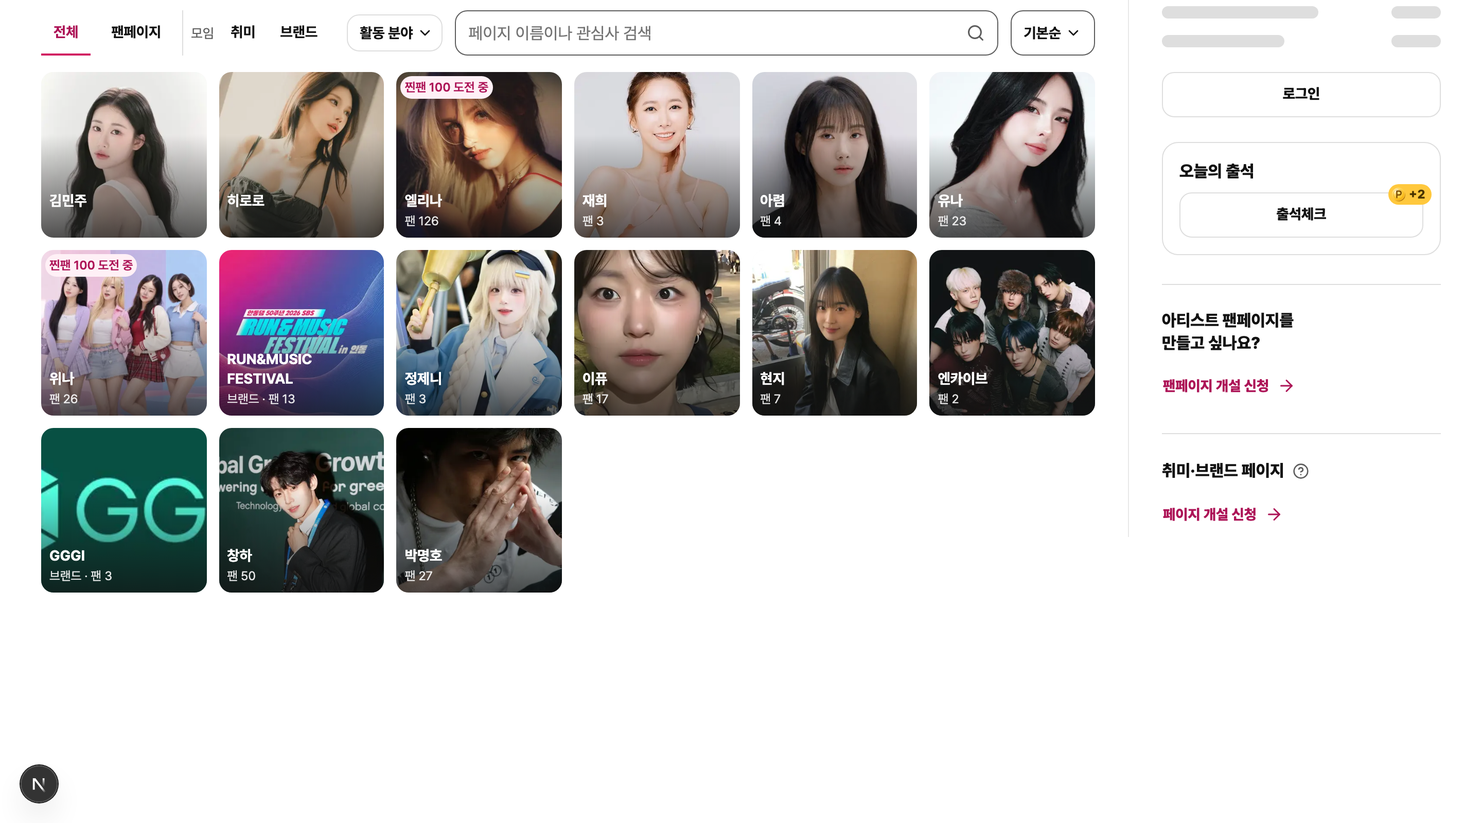
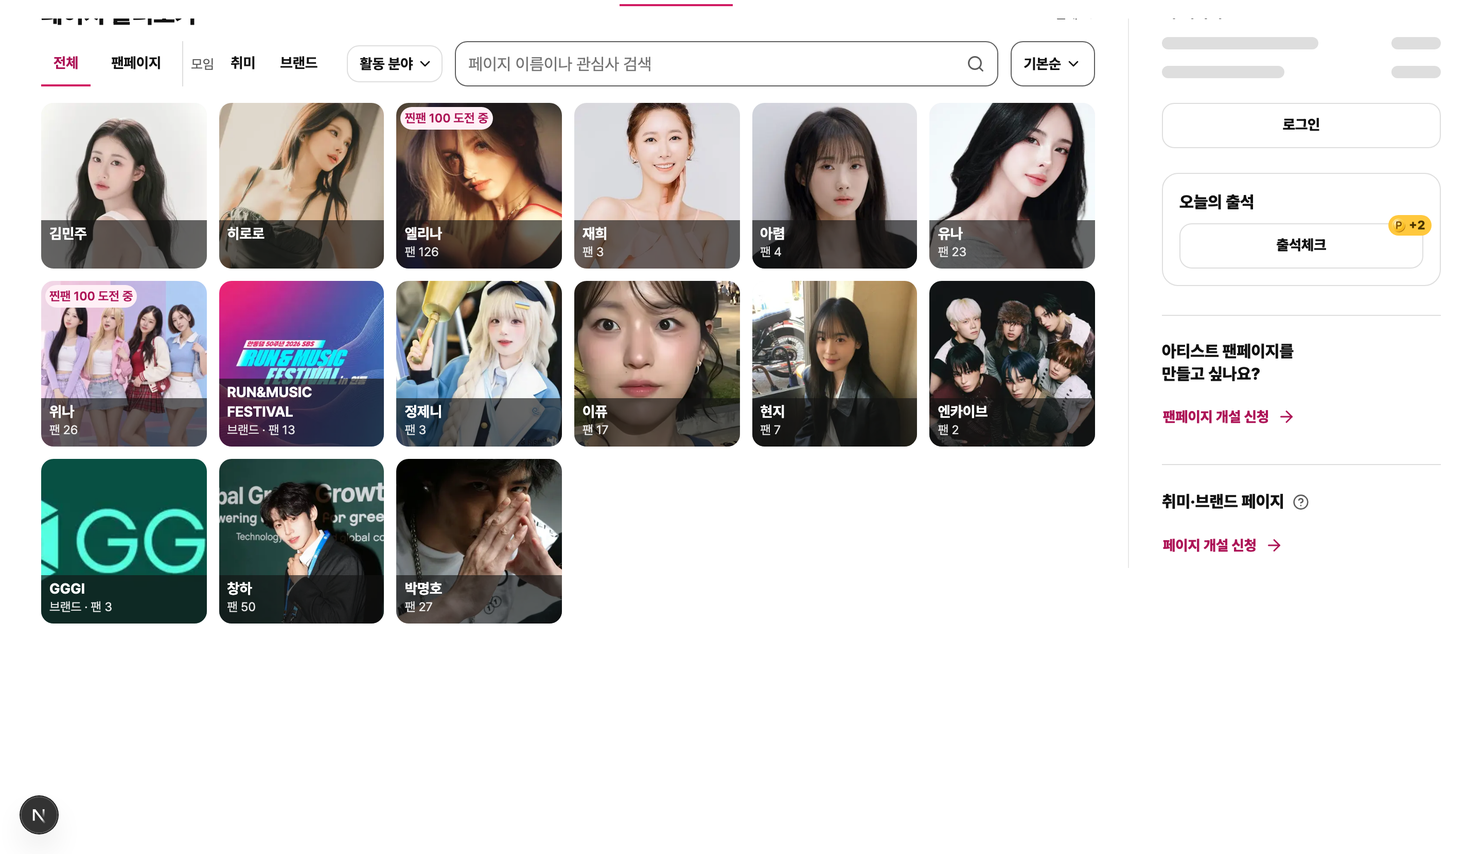
fix(groups): finish the directory tiles and filter row at 360
- At 380px and below the chips sit 4px apart so the Korean filter row fits 360;
  a longer translated row keeps 16px after its last chip.
- Tiles lay the badge and the name band out in one column, so they keep at
  least 4px apart however the tag wraps; the fact line wraps instead of being cut.
- The name band is one flat translucent ink band instead of a gradient (S1).
- Shorter fr and ru search hints that fit the 360 search field.
- Release note captures retaken with the band.

diff --git a/apps/web/features/groups/ui/copy.ts b/apps/web/features/groups/ui/copy.ts
@@ -10,8 +10,8 @@ const labels = {
  vi: ["Nhóm", "Khám phá trang", "Tất cả", "Người hâm mộ", "Sở thích", "Thương hiệu", "Tìm trang hoặc sở thích", "Nhiều fan nhất", "Mới nhất", "Trang của tôi", "Đăng ký mở trang", "Xem thêm", "Thử lại", "Đang tải", "Chưa có trang để hiển thị.", "Tham gia", "Đã tham gia", "Trang chủ", "Bảng tin", "Phòng riêng", "Hoạt động", "Tin tức", "Sự kiện", "Bộ sưu tập", "Fan", "Thông tin trang", "Lưu", "Đã nhận đăng ký", "Chúng tôi sẽ thông báo sau khi xét duyệt.", "Tên trang", "Giới thiệu", "Câu hỏi tham gia (tùy chọn)", "Gửi đăng ký", "Hủy", "Đăng nhập", "Câu trả lời", "Không thể hoàn tất. Hãy thử lại.", "Trang đã tham gia", "Bỏ lưu", "Chỉ dành cho fan.", "Tìm kiếm"],
  th: ["กลุ่ม", "สำรวจเพจ", "ทั้งหมด", "แฟน", "งานอดิเรก", "แบรนด์", "ค้นหาเพจหรือความสนใจ", "แฟนมากที่สุด", "ใหม่ล่าสุด", "เพจของฉัน", "ขอเปิดเพจ", "ดูเพิ่มเติม", "ลองอีกครั้ง", "กำลังโหลด", "ยังไม่มีเพจให้แสดง", "เข้าร่วม", "เข้าร่วมแล้ว", "หน้าแรก", "กระดาน", "ห้องส่วนตัว", "กิจกรรม", "ข่าวสาร", "อีเวนต์", "คอลเลกชัน", "แฟน", "ข้อมูลเพจ", "บันทึก", "ได้รับคำขอแล้ว", "เราจะแจ้งผลหลังตรวจสอบ", "ชื่อเพจ", "เกี่ยวกับเพจ", "คำถามเข้าร่วม (ไม่บังคับ)", "ส่งคำขอ", "ยกเลิก", "เข้าสู่ระบบ", "คำตอบของคุณ", "ไม่สำเร็จ โปรดลองอีกครั้ง", "เพจที่เข้าร่วม", "เลิกบันทึก", "สำหรับแฟนเท่านั้น", "ค้นหา"],
  pt: ["Grupos", "Explorar páginas", "Todos", "Fãs", "Interesses", "Marcas", "Buscar páginas ou interesses", "Mais fãs", "Mais recentes", "Minhas páginas", "Solicitar página", "Ver mais", "Tentar novamente", "Carregando", "Ainda não há páginas.", "Participar", "Participando", "Início", "Fórum", "Salas privadas", "Atividades", "Notícias", "Eventos", "Coleção", "Fãs", "Informações", "Salvar", "Solicitação recebida", "Avisaremos após a análise.", "Nome", "Descrição", "Pergunta de entrada (opcional)", "Enviar solicitação", "Cancelar", "Entrar", "Sua resposta", "Não foi possível concluir. Tente novamente.", "Páginas de que participo", "Remover dos salvos", "Somente fãs.", "Buscar"],
- fr: ["Groupes", "Explorer les pages", "Tout", "Fans", "Loisirs", "Marques", "Rechercher des pages ou intérêts", "Plus de fans", "Plus récentes", "Mes pages", "Demander une page", "Voir plus", "Réessayer", "Chargement", "Aucune page à afficher.", "Rejoindre", "Membre", "Accueil", "Forum", "Salons privés", "Activités", "Actualités", "Événements", "Collection", "Fans", "Informations", "Enregistrer", "Demande reçue", "Nous vous informerons après examen.", "Nom", "Présentation", "Question d’adhésion (facultative)", "Envoyer", "Annuler", "Se connecter", "Votre réponse", "Impossible de terminer. Réessayez.", "Pages rejointes", "Retirer des favoris", "Réservé aux fans.", "Rechercher"],
- ru: ["Группы", "Обзор страниц", "Все", "Фанаты", "Увлечения", "Бренды", "Поиск страниц или интересов", "Больше фанатов", "Новые", "Мои страницы", "Заявка на страницу", "Показать ещё", "Повторить", "Загрузка", "Пока нет страниц.", "Вступить", "Вы участник", "Главная", "Обсуждения", "Комнаты", "Активности", "Новости", "События", "Коллекция", "Фанаты", "О странице", "Сохранить", "Заявка получена", "Мы сообщим результат проверки.", "Название", "Описание", "Вопрос для вступления (необязательно)", "Отправить заявку", "Отмена", "Войти", "Ваш ответ", "Не удалось завершить. Повторите попытку.", "Ваши страницы", "Убрать из сохранённого", "Только для фанатов.", "Поиск"],
+ fr: ["Groupes", "Explorer les pages", "Tout", "Fans", "Loisirs", "Marques", "Page ou centre d'intérêt", "Plus de fans", "Plus récentes", "Mes pages", "Demander une page", "Voir plus", "Réessayer", "Chargement", "Aucune page à afficher.", "Rejoindre", "Membre", "Accueil", "Forum", "Salons privés", "Activités", "Actualités", "Événements", "Collection", "Fans", "Informations", "Enregistrer", "Demande reçue", "Nous vous informerons après examen.", "Nom", "Présentation", "Question d’adhésion (facultative)", "Envoyer", "Annuler", "Se connecter", "Votre réponse", "Impossible de terminer. Réessayez.", "Pages rejointes", "Retirer des favoris", "Réservé aux fans.", "Rechercher"],
+ ru: ["Группы", "Обзор страниц", "Все", "Фанаты", "Увлечения", "Бренды", "Страница или интерес", "Больше фанатов", "Новые", "Мои страницы", "Заявка на страницу", "Показать ещё", "Повторить", "Загрузка", "Пока нет страниц.", "Вступить", "Вы участник", "Главная", "Обсуждения", "Комнаты", "Активности", "Новости", "События", "Коллекция", "Фанаты", "О странице", "Сохранить", "Заявка получена", "Мы сообщим результат проверки.", "Название", "Описание", "Вопрос для вступления (необязательно)", "Отправить заявку", "Отмена", "Войти", "Ваш ответ", "Не удалось завершить. Повторите попытку.", "Ваши страницы", "Убрать из сохранённого", "Только для фанатов.", "Поиск"],
 } satisfies Record<AppLocale, readonly string[]>;
 const keys = ["groups","explore","all","fan","hobby","brand","searchPlaceholder","popular","recent","myPages","apply","more","retry","loading","empty","join","joined","home","board","rooms","activities","news","events","collection","members","info","bookmark","received","receivedNote","name","description","question","submit","cancel","login","answer","error","joinedPages","unbookmark","membersOnly","search"] as const;
 export function groupsCopy(locale: AppLocale) { return Object.fromEntries(keys.map((key,index)=>[key,labels[locale][index]])) as Record<typeof keys[number],string>; }

diff --git a/apps/web/features/groups/ui/group-directory.tsx b/apps/web/features/groups/ui/group-directory.tsx
@@ -55,6 +55,15 @@ function CheckinCorner({locale,children}:{locale:AppLocale;children:ReactNode}){
  const {points}=checkinNumbers(useDukjil()?.catalog);
  return <span className={`${cornerStyles.host} ${directoryStyles.attendanceAction}`}>{children}{points!==undefined&&<EarnBadge variant="corner" locale={locale} points={points}/>}</span>;
 }
+// Marks a sideways-scrolling row with data-scrolls so its end keeps room after the last chip.
+function useOverflowHint(){
+ const ref=useRef<HTMLDivElement|null>(null);
+ useEffect(()=>{const node=ref.current;if(!node)return;
+  const update=()=>{node.removeAttribute('data-scrolls');node.toggleAttribute('data-scrolls',node.scrollWidth>node.clientWidth+1);};
+  update();const observer=typeof ResizeObserver==='undefined'?undefined:new ResizeObserver(update);observer?.observe(node);
+  return()=>observer?.disconnect();},[]);
+ return ref;
+}
 const parseStatus=(value:unknown)=>applicationStatusListSchema.parse(value);
 const statusLabel:Record<ApplicationStatus["status"],GroupApplyCopyKey>={submitted:"statusReviewing",reviewing:"statusReviewing",changes_requested:"statusChanges",approved:"statusApproved",rejected:"statusRejected"};
 const parseList = (value:unknown)=>groupListSchema.parse(value);
@@ -67,6 +76,7 @@ export function GroupDirectory({locale,initialOwned=false,banners=[]}:{locale:Ap
   const t=groupsCopy(locale),c=discoveryCopy(locale),w=walletCopy(locale);
  const [attendanceOpen,setAttendanceOpen]=useState(false);
  const attendanceTrigger=useRef<HTMLAnchorElement|null>(null);
+ const filterBar=useOverflowHint();
   const query=useSearchParams();
   const directoryLoginQuery=new URLSearchParams(query?.toString()??'');directoryLoginQuery.set('locale',locale);
   const directoryLogin=fanLoginHref(locale,`/pages/groups?${directoryLoginQuery}`);
@@ -137,7 +147,7 @@ export function GroupDirectory({locale,initialOwned=false,banners=[]}:{locale:Ap
       <div className={directoryStyles.controls}>
       <form className={`${styles.search} ${directoryStyles.search}`} onSubmit={submit}><input className={`${styles.input} ${directoryStyles.searchInput}`} aria-label={t.searchPlaceholder} placeholder={t.searchPlaceholder} value={draft} onChange={e=>setDraft(e.target.value)} onCompositionStart={()=>setComposing(true)} onCompositionEnd={()=>setComposing(false)} maxLength={100}/><button className={directoryStyles.searchIcon} aria-label={t.search}><Search size={18}/></button></form>
       <Menu.Root><Menu.Trigger className={`${sortStyles.trigger} ${directoryStyles.sort}`} data-active={sort==='popular'?'':undefined}><ArrowDownUp className={directoryStyles.sortIcon} size={18} aria-hidden/><span className={directoryStyles.sortLabel}>{sort==='popular'?t.popular:c.defaultSort}</span><ChevronDown className={directoryStyles.sortChevron} size={16} aria-hidden/></Menu.Trigger><Menu.Portal><Menu.Positioner align='end' sideOffset={4} className={sortStyles.positioner}><Menu.Popup className={sortStyles.popup} data-source-node='XnL4z' aria-label={t.popular}><Menu.RadioGroup className={sortStyles.group} value={sort} onValueChange={value=>{if(value==='recent'||value==='popular')setSort(value);}}><Menu.RadioItem className={sortStyles.item} value='recent'>{c.defaultSort}</Menu.RadioItem><Menu.RadioItem className={sortStyles.item} value='popular'>{t.popular}</Menu.RadioItem></Menu.RadioGroup></Menu.Popup></Menu.Positioner></Menu.Portal></Menu.Root>
-      <div className={directoryStyles.filterBar} aria-label={t.explore}><button className={`${styles.chip} ${directoryStyles.chip}`} aria-pressed={type==='all'} onClick={()=>setType('all')}>{t.all}</button><button className={`${styles.chip} ${directoryStyles.chip}`} aria-pressed={type==='fan'} onClick={()=>setType('fan')}>{fanpageLabel[locale]}</button><div className={directoryStyles.groupKinds} role="group" aria-label={t.groups}><span className={directoryStyles.groupLabel}>{t.groups}</span>{(['hobby','brand'] as const).map(value=><button className={`${styles.chip} ${directoryStyles.chip}`} aria-pressed={type===value} key={value} onClick={()=>{if(artistRole)updateQuery('artistRole',undefined);setType(value);}}>{t[value]}</button>)}</div>
+      <div ref={filterBar} className={directoryStyles.filterBar} aria-label={t.explore}><button className={`${styles.chip} ${directoryStyles.chip}`} aria-pressed={type==='all'} onClick={()=>setType('all')}>{t.all}</button><button className={`${styles.chip} ${directoryStyles.chip}`} aria-pressed={type==='fan'} onClick={()=>setType('fan')}>{fanpageLabel[locale]}</button><div className={directoryStyles.groupKinds} role="group" aria-label={t.groups}><span className={directoryStyles.groupLabel}>{t.groups}</span>{(['hobby','brand'] as const).map(value=><button className={`${styles.chip} ${directoryStyles.chip}`} aria-pressed={type===value} key={value} onClick={()=>{if(artistRole)updateQuery('artistRole',undefined);setType(value);}}>{t[value]}</button>)}</div>
       <Menu.Root><Menu.Trigger className={`${styles.chip} ${directoryStyles.chip} ${directoryStyles.roleTrigger}`} disabled={nonFanType} data-active={activeRole?'':undefined} aria-label={`${groupApplyText(locale,'roleFilter')}: ${creatorRoleFilterLabel(activeRole??'all',locale)}`}>{activeRole?creatorRoleFilterLabel(activeRole,locale):groupApplyText(locale,'roleFilter')}<ChevronDown size={16} aria-hidden/></Menu.Trigger><Menu.Portal><Menu.Positioner align='start' sideOffset={4} className={sortStyles.positioner}><Menu.Popup className={sortStyles.popup} aria-label={groupApplyText(locale,'roleFilter')}><Menu.RadioGroup className={sortStyles.group} value={activeRole??'all'} onValueChange={value=>updateQuery('artistRole',value==='all'?undefined:String(value))}>{ROLE_FILTERS.map(role=><Menu.RadioItem key={role} className={sortStyles.item} value={role}>{creatorRoleFilterLabel(role,locale)}</Menu.RadioItem>)}</Menu.RadioGroup></Menu.Popup></Menu.Positioner></Menu.Portal></Menu.Root></div>
       </div>
       {mineRow&&<div className={styles.toolbar}><button className={styles.chip} aria-pressed={mine==="joined"} onClick={()=>setMine(mine==="joined"?undefined:"joined")}>{t.joinedPages}</button><button className={styles.chip} aria-pressed={mine==="bookmarked"} onClick={()=>setMine(mine==="bookmarked"?undefined:"bookmarked")}>{t.bookmark}</button></div>}

diff --git a/apps/web/components/fan-ui/fan-entity-card.module.css b/apps/web/components/fan-ui/fan-entity-card.module.css
@@ -25,18 +25,20 @@
 .list { position: relative; height: auto; min-height: 64px; padding: var(--space-2) 0; }
 .list::after { content: ""; position: absolute; inset-inline: calc(48px + var(--space-3)) 0; bottom: 0; height: 1px; background: var(--color-line-subtle); }
 .list:hover .name { text-decoration: underline; text-underline-offset: 3px; }
-/* Directory tile (L5): square photo, name and one fact on a dark fade at the photo's lower edge. Same-row tiles share one size, so the facts line up. */
-.tile { position: relative; display: block; aspect-ratio: 1; min-width: 0; overflow: hidden; border-radius: var(--radius-control); background: var(--color-soft); color: var(--color-surface); text-decoration: none; isolation: isolate; }
+/* Directory tile (L5): square photo, name and one fact on a dark band at the photo's lower edge. Same-row tiles share one size, so the facts line up. */
+.tile { position: relative; display: flex; flex-direction: column; justify-content: space-between; gap: var(--space-1); box-sizing: border-box; padding: var(--space-1); aspect-ratio: 1; min-width: 0; overflow: hidden; border-radius: var(--radius-control); background: var(--color-soft); color: var(--color-surface); text-decoration: none; isolation: isolate; }
 .tile:focus-visible { outline: 2px solid var(--color-focus); outline-offset: 2px; }
 .tileMedia { position: absolute; inset: 0; display: block; }
 .tileMedia > img { display: block; width: 100%; height: 100%; object-fit: cover; }
 .tileMedia > span[role="img"] { color: var(--color-muted); }
 .tileInitials { display: flex; align-items: flex-start; justify-content: center; width: 100%; height: 100%; padding-top: 22%; color: var(--color-muted); font-size: var(--fan-heading-size); font-weight: 700; }
-.tile::after { content: ""; position: absolute; inset: 0; z-index: 1; background: linear-gradient(to top, color-mix(in srgb, var(--color-ink) 72%, transparent), transparent 62%); pointer-events: none; }
-.tileBadge { position: absolute; inset-block-start: var(--space-1); inset-inline-start: var(--space-1); z-index: 2; display: flex; max-width: calc(100% - var(--space-2)); }
+/* Badge on top, name and fact at the bottom of one column: the column gap keeps at least 4px between them however the tag wraps. */
+.tileBadge { position: relative; z-index: 1; display: flex; flex: none; max-width: 100%; }
 /* A long translated tag wraps inside the tile instead of running past its edge. */
-.tileBadge > * { flex: 0 1 auto; height: auto; min-height: 22px; padding: 2px var(--space-1); border-radius: var(--radius-control); white-space: normal; line-height: 1.35; overflow-wrap: anywhere; }
-.tileCopy { position: absolute; inset-inline: var(--space-2); inset-block-end: var(--space-2); z-index: 2; display: grid; gap: 2px; min-width: 0; }
+.tileBadge > * { flex: 0 1 auto; height: auto; min-height: 22px; padding: 2px var(--space-1); border-radius: var(--radius-control); white-space: normal; line-height: 1.2; overflow-wrap: anywhere; }
+/* Name and fact sit on one flat dark band at the bottom edge (no gradient, DESIGN S1). */
+.tileCopy { position: relative; z-index: 1; display: grid; flex: none; gap: 0; min-width: 0; margin: auto calc(-1 * var(--space-1)) calc(-1 * var(--space-1)); padding: var(--space-1) var(--space-2) var(--space-2); background: color-mix(in srgb, var(--color-ink) 64%, transparent); }
+.tile:has(.tileBadge) .tileName { -webkit-line-clamp: 2; }
 .tileName { display: -webkit-box; overflow: hidden; -webkit-box-orient: vertical; -webkit-line-clamp: 3; font-size: var(--fan-action-label-size); font-weight: 700; line-height: 1.35; overflow-wrap: anywhere; }
-.tileMeta { min-height: 1.35em; overflow: hidden; font-size: var(--fan-badge-size); line-height: 1.35; text-overflow: ellipsis; white-space: nowrap; opacity: 0.88; }
+.tileMeta { min-height: 1.35em; font-size: var(--fan-badge-size); line-height: 1.35; overflow-wrap: anywhere; opacity: 0.88; }
 .tile:hover .tileName { text-decoration: underline; text-underline-offset: 3px; }

diff --git a/apps/web/features/groups/ui/group-directory.module.css b/apps/web/features/groups/ui/group-directory.module.css
@@ -36,6 +36,9 @@
 }
 .filterBar { grid-column: 1 / -1; display: flex; align-items: center; gap: var(--space-2); min-width: 0; margin-block: calc(-1 * var(--space-1)); padding-block: var(--space-1); overflow-x: auto; scrollbar-width: none; }
 .filterBar::-webkit-scrollbar { display: none; }
+/* At 380px and below the chips sit 4px apart so the Korean row fits 360. A longer translated row scrolls: the cut chip at the edge is the hint, and the end keeps 16px after the last chip. */
+@media (max-width: 380px) { .filterBar, .groupKinds { gap: var(--space-1); } }
+.filterBar[data-scrolls] { padding-inline-end: var(--space-4); }
 .groupKinds { display: flex; flex: none; align-items: center; gap: var(--space-2); padding-inline-start: var(--space-2); border-inline-start: 1px solid var(--color-line); }
 /* Below 1024px the divider alone marks the group kinds so the five chips fit one 390 row; the group keeps its name for screen readers. */
 .groupLabel { display: none; color: var(--color-muted); font-size: var(--fan-metadata-size); white-space: nowrap; }

diff --git a/apps/web/components/fan-ui/fan-entity-card.tsx b/apps/web/components/fan-ui/fan-entity-card.tsx
@@ -59,7 +59,7 @@ export function FanEntityCard({ href, image, name, kind, locale, memberCount, tr
   </Link>;
 }
 
-/** L5 (2026-11-09, Weverse artist picker on Mobbin): a square photo tile with the name and one fact on the photo's lower edge.
+/** L5 (2026-11-09, Weverse artist picker on Mobbin): a square photo tile with the name and one fact on a dark band at the photo's lower edge.
  * Creator photos use the reviewed square crop (`portrait`); other pages use their own image or two letters of the name. */
 function FanEntityTile({ href, image, name, kind, locale, memberCount, badge, className }: Readonly<{ href: string; image: FanPageImage; name: string; kind: FanPageKind; locale: AppLocale; memberCount?: number; badge?: ReactNode; className?: string }>) {
   const count = memberCount ? fanUiText(locale, "fanCount", [memberCount.toLocaleString(locale)]) : undefined;

diff --git a/DESIGN.md b/DESIGN.md
@@ -37,7 +37,7 @@ radius-scale: "12px / 8px / pill"
 | 모임·덕질 제목 위 여백 | 상단 바 아래 390 16px / 1440 40px(홈은 히어로라 예외) | `group-benefits.module.css` `.page` padding-top, `groups.module.css` `.page` | 결정 2026-11-06: 모임 값을 기준으로 덕질을 맞춤. 로컬 화면 확인 전, dev 재측정으로 확인 |
 | 카드 사이 간격 | 12px | 화면별 CSS | 결정 2026-11-06: 덕질 요약 1440 16px → 12px |
 | 모임 필터 칩(1024+) | 390: 12px 반경 칩. 예외: 1024px 이상은 밑줄 탭 유지(원본 계약, :1269) | `groups.module.css` `@media(min-width:1024px)` | 결정 2026-11-06: 사용자가 고른 Pencil 원본의 계약이라 유지. 사용자 승인 없이 뒤집지 않음 |
-| 모임 디렉터리 상단·목록(L4·L5) | 상단: 검색 44 + 정렬(600 미만 44 아이콘 버튼, 이상 `기본순 ∨`) 한 줄, 그 아래 칩 36 한 줄(전체·팬페이지 | 취미·브랜드 + 끝 `활동 분야 ∨` 메뉴 칩), 1280+ 한 줄. 목록: 정사각 사진 칸 3열(390, 간격 12)·4열(600+)·5열(768+)·`minmax(148px,1fr)`(1024+), 이름 14/700 최대 3줄 + 사실 한 줄을 사진 아래 어두운 띠 위에 | `group-directory.module.css`, `FanEntityCard size="tile"`, `FanSkeletonRows variant="tile"` | 2026-11-09 피드백 L4·L5(사용자 "벤치마킹 찾아서 수정"): Weverse 아티스트 검색·아티스트 고르기(Mobbin). 근거 `board/tasks/feedback-l/benchmarks/L4.md`, `L5.md`. 360에서 칩 줄 11px 가로 스크롤, vi 찐팬 배지 3줄, ru·fr 검색 안내 글자 일부 가림은 남은 한계 |
+| 모임 디렉터리 상단·목록(L4·L5) | 상단: 검색 44 + 정렬(600 미만 44 아이콘 버튼, 이상 `기본순 ∨`) 한 줄, 그 아래 칩 36 한 줄(전체·팬페이지 | 취미·브랜드 + 끝 `활동 분야 ∨` 메뉴 칩), 1280+ 한 줄. 목록: 정사각 사진 칸 3열(390, 간격 12)·4열(600+)·5열(768+)·`minmax(148px,1fr)`(1024+), 이름 14/700 최대 3줄(배지 있으면 2줄) + 사실 줄을 사진 아래쪽 단색 반투명 띠(잉크 64%, 그라데이션 없음) 위에, 배지는 위에 두고 세로 간격 ≥ 4. 380 이하 칩 간격 4, 넘치는 번역 칩 줄은 끝 여백 16 | `group-directory.module.css`, `FanEntityCard size="tile"`, `FanSkeletonRows variant="tile"` | 2026-11-09 피드백 L4·L5(사용자 "벤치마킹 찾아서 수정"): Weverse 아티스트 검색·아티스트 고르기(Mobbin). 근거 `board/tasks/feedback-l/benchmarks/L4.md`, `L5.md`. 11-09 마무리: 360 한국어 칩 줄 한 줄, ru·fr 검색 안내를 짧은 명사구로, 칸 어두운 띠를 그라데이션에서 단색으로(S1) |
 | 홈 선택 칩 | 선택: 분홍 채움 #fff0f6·글자 #ad1457·테두리 #d11b62, 굵기는 비선택과 같음(모임·덕질 `.chip[aria-pressed]`와 같은 값). 비선택 흰 바탕·`--color-line` 테두리, 포커스는 `--color-ink` 윤곽 유지 | `components/fan-ui/creator-roles.module.css:38-43` `CreatorRoleFilterControl`(홈 `guest-home.tsx`, 디렉터리 `celebrity-directory.tsx`) | 2026-11-06 FIX-2C: 승인 이력 없던 검정 채움·흰 글자·650을 모임과 같은 분홍으로 통일(오케스트레이터 결정, 되돌릴 수 있음). 분홍 값은 아직 토큰이 없어 모임 CSS와 같은 값을 직접 씀 |
 | 덕질 h1 | 화면에서 숨김(`srOnly`, 문서 구조 유지). 이전: 1440에서 모임과 같은 1360px | `group-benefits-screen.tsx` `<header className={styles.srOnly}>` | 2026-11-06 2차 재검토 M5: 화면 제목과 구역 제목을 가르는 역할 값이 없어 새 값을 만들지 않고 제목을 숨김(오케스트레이터 결정, 아래 "페이지 제목 숨김"). 제목 줄 오른쪽의 "랭킹"·"내역" 링크는 1차에서 없앴고 랭킹 구역의 "전체 보기", 내역 제목 줄의 "전체 보기"로 이동 |
 | 홈 구역 제목 위 간격 | 히어로 다음 구역은 `.contentSection { margin-top: var(--fan-section-gap) }`(390 32px, 768+ 48px)라 모임 16/40 기준과 다름 | `components/guest-home.module.css:36` | 사유 기록만(2026-11-06): 히어로 다음 구역의 구역 간격이며 제목 여백이 아님. 모임·덕질 16/40은 상단 바 아래 여백이라 역할이 다름 |
